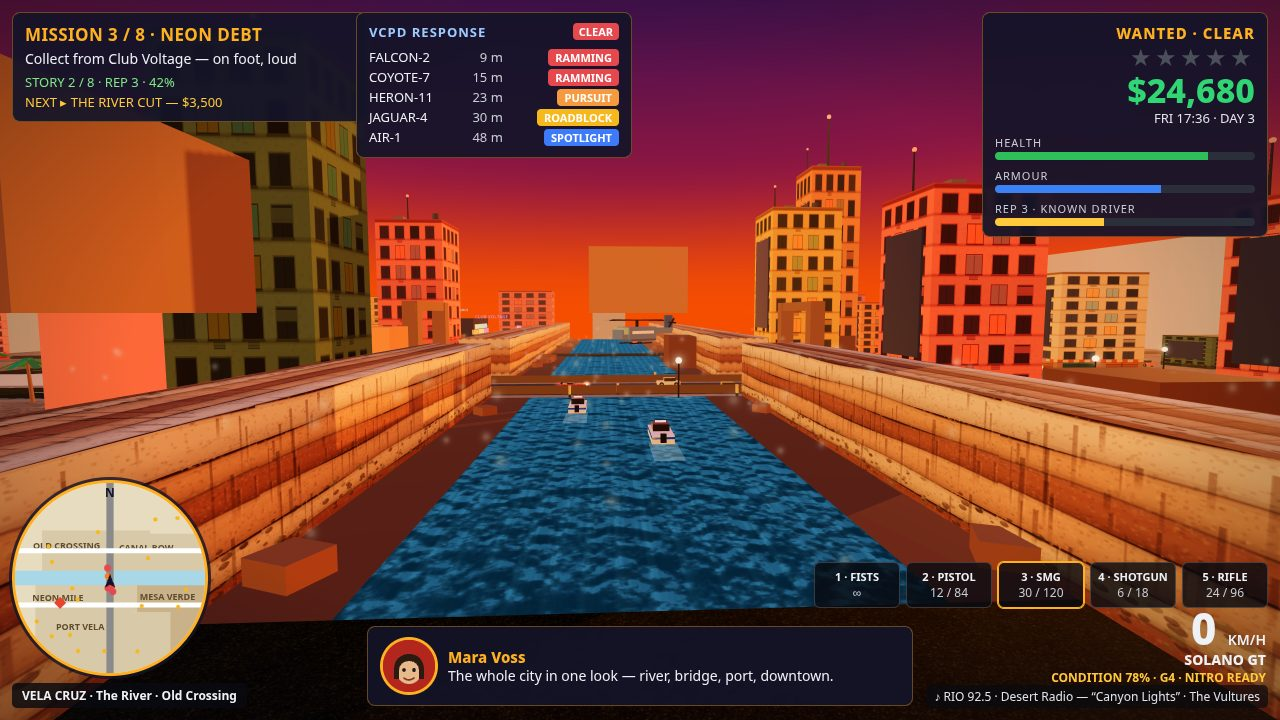
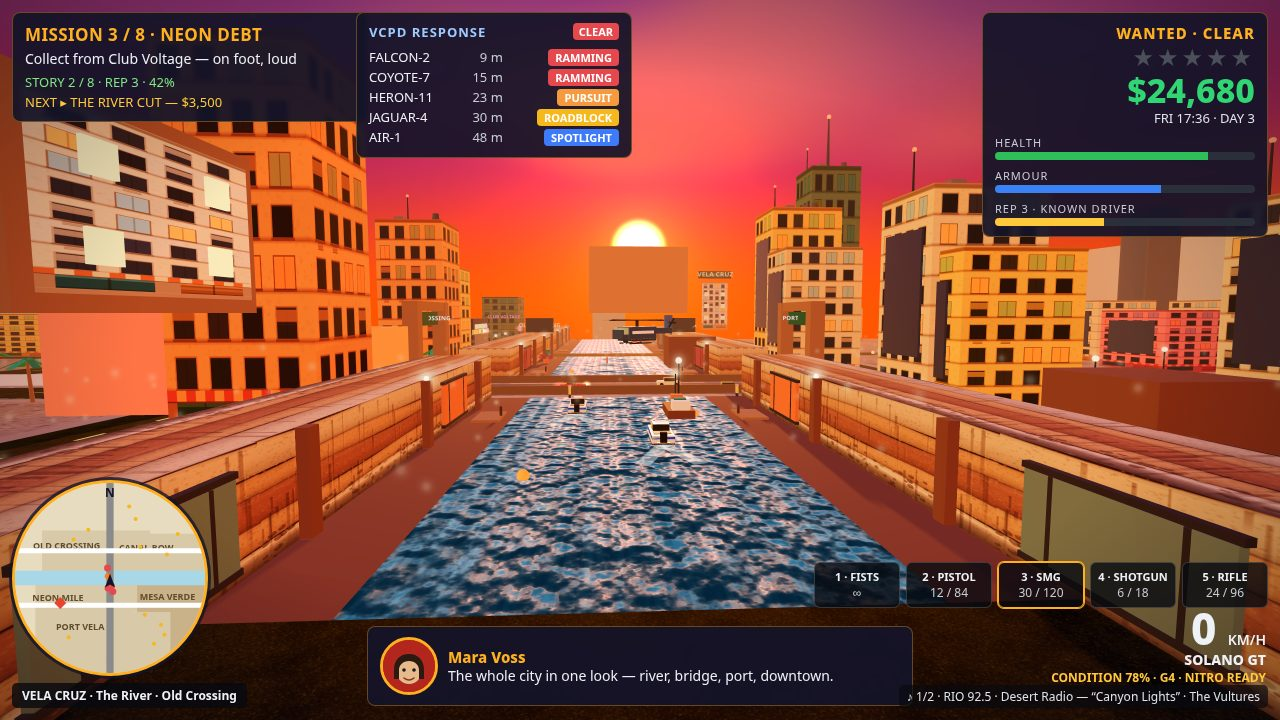
v7 r4d full — lighting + detail pass all shots

diff --git a/game/src/city.js b/game/src/city.js
@@ -87,6 +87,7 @@ export function createCity(seed = 7) {
   scene.add(playerLight);
   let sunYeff = 26;
   let sunOverride = null; // normalized THREE.Vector3 or null: staged-shot sun direction
+  let fillOverride = null; // number or null: staged-shot fill intensity, re-applied by setHour like sunOverride
   let lastWaterSky = 0x6fa8c0, lastSunHex = 0xff9a3e; // remembered by setHour for the override re-apply
   // Re-point sky dome sun, water glint at the override direction.
   // Called from setHour (if override already set) and from setSunOverride.
@@ -223,7 +224,7 @@ export function createCity(seed = 7) {
       // face (they must read at 100-270 m at a grazing angle) + one big
       // wall-top sign per segment. Face toward the river is at
       // z = wz - sign(wz)*5; panels sit 0.3 m proud of it.
-      const panelColors = [0xc96a2e, 0x2e7d6b, 0xb98a2e, 0x8a4a4a];
+      const panelColors = [0xc96a2e, 0x5f7a68, 0xb98a2e, 0x8a4a4a]; // r4d: teal muted to sage — the saturated teal read as a flat green slab at golden hour
       let pi = 0;
       for (let bx = x0 + 25; bx < x1 - 15; bx += 50) {
         const panel = new THREE.Mesh(
@@ -239,6 +240,21 @@ export function createCity(seed = 7) {
         );
         panelTrim.position.set(bx, 5.9, wz - Math.sign(wz) * 5.3);
         scene.add(panelTrim);
+        // r4d: bottom trim + two vertical ribs — the panel stops reading as one flat colour card.
+        const panelTrimB = new THREE.Mesh(
+          new THREE.BoxGeometry(11.4, 0.35, 0.45),
+          new THREE.MeshStandardMaterial({ color: 0x2a2a2a, roughness: 0.9 })
+        );
+        panelTrimB.position.set(bx, 0.9, wz - Math.sign(wz) * 5.3);
+        scene.add(panelTrimB);
+        for (const rx of [-3.6, 3.6]) {
+          const rib = new THREE.Mesh(
+            new THREE.BoxGeometry(0.3, 4.6, 0.45),
+            new THREE.MeshStandardMaterial({ color: 0x2a2a2a, roughness: 0.9 })
+          );
+          rib.position.set(bx + rx, 3.4, wz - Math.sign(wz) * 5.3);
+          scene.add(rib);
+        }
         pi++;
       }
       // Wall-top sign: dark backing + camera-facing label + glow, one per
@@ -246,7 +262,10 @@ export function createCity(seed = 7) {
       const wallSignTexts = ['PORT VELA', 'CANAL ROW', 'OLD CROSSING', 'MESA VERDE'];
       const wallSignIdx = (wz < 0 ? 0 : 2) + (x0 < 0 ? 0 : 1);
       const wsx = (x0 + x1) / 2;
-      const wsBack = box(0.6, 5.5, 18, 0x1a1a1a, wsx, 9.4, wz);
+      const wsBack = box(0.6, 5.5, 10, 0x1a1a1a, wsx, 9.4, wz);
+      // r4d-9: depth 18 (proof) menjorok ke z=35 dan menutupi huruf E sign
+      // CLUB VOLTAGE dari kamera night; depth 10 = selebar dinding (z 21..31),
+      // sinar E (z=34.3 di x=-110) lolos 3+ m.
       scene.add(wsBack);
       const wsLabel = labelSprite(wallSignTexts[wallSignIdx], '#ffd34d', 64);
       wsLabel.scale.set(16, 3.4, 1);
@@ -709,6 +728,16 @@ export function createCity(seed = 7) {
   spire.position.set(-52, 52 + 7, -58); scene.add(spire);
   const spireBeacon = new THREE.Mesh(new THREE.SphereGeometry(0.6, 8, 8), new THREE.MeshStandardMaterial({ color: 0xff2020, emissive: 0xff2020, emissiveIntensity: 3 }));
   spireBeacon.position.set(-52, 52 + 14.4, -58); scene.add(spireBeacon);
+  // r4d: far-north towers — the night shot's upper-right was empty black sky,
+  // and the wide frame's right horizon was flat. Lit south faces, so they
+  // read from the club street and from the wide camera alike.
+  for (const [tx, tz, th] of [[-120, -215, 55], [-80, -225, 45], [-40, -215, 60]]) {
+    const far = new THREE.Mesh(new THREE.BoxGeometry(13, th, 13), new THREE.MeshStandardMaterial({ color: 0x3a3a42, roughness: 0.9 }));
+    far.position.set(tx, th / 2, tz); far.castShadow = true; scene.add(far);
+    const farWin = new THREE.Mesh(new THREE.PlaneGeometry(11, th * 0.6), winMat);
+    farWin.position.set(tx, th * 0.55, tz + 6.6);
+    scene.add(farWin);
+  }
 
   // Neon Mile: Club Voltage + neon signs (emissive boxes that glow at night).
   const club = box(26, 12, 16, 0x241a33, -110, 6, 55); scene.add(club);
@@ -721,6 +750,29 @@ export function createCity(seed = 7) {
     const sign = box(8 + (i % 2) * 3, 1.6, 0.6, 0x111111, -118 + i * 4.5, ny, 46.9, { emissive: c, ei: 2.2 });
     scene.add(sign);
   });
+  // r4d: the middle (yellow) neon sign gets a word — it was one flat yellow bar.
+  // r4d-9: plane datar menghadap utara, bukan sprite billboard — sprite
+  // miring mengikuti kamera oblique dan separuh bidang masuk ke box sign
+  // kuning (muka depan z=46.6), sehingga huruf "CAN" tertutup.
+  const cantinaCanvas = document.createElement('canvas');
+  cantinaCanvas.width = 512; cantinaCanvas.height = 96;
+  const cantinaCtx = cantinaCanvas.getContext('2d');
+  cantinaCtx.font = '800 48px system-ui, sans-serif';
+  cantinaCtx.textAlign = 'center'; cantinaCtx.textBaseline = 'middle';
+  cantinaCtx.fillStyle = '#1a1a1a';
+  cantinaCtx.fillText('CANTINA', 256, 48);
+  const cantinaTex = new THREE.CanvasTexture(cantinaCanvas);
+  const cantinaLabel = new THREE.Mesh(
+    new THREE.PlaneGeometry(7, 1.3),
+    new THREE.MeshBasicMaterial({ map: cantinaTex, transparent: true })
+  );
+  cantinaLabel.position.set(-109, 7.5, 46.45);
+  cantinaLabel.rotation.y = Math.PI; // face north, toward the street/camera
+  scene.add(cantinaLabel);
+  const cantinaGlow = new THREE.Sprite(new THREE.SpriteMaterial({ map: glowTex, color: 0xffd400, transparent: true, opacity: 0.6, depthWrite: false, blending: THREE.AdditiveBlending }));
+  cantinaGlow.scale.set(9, 3, 1);
+  cantinaGlow.position.set(-109, 7.5, 46.4); // di depan muka sign (46.6)
+  scene.add(cantinaGlow);
   const clubSign = labelSprite('CLUB VOLTAGE', '#ff2e88', 56);
   clubSign.scale.set(15, 2.8, 1);
   clubSign.position.set(-114, 12.5, 39.5); scene.add(clubSign);
@@ -816,15 +868,15 @@ export function createCity(seed = 7) {
   const clubEastNeon2 = box(0.3, 9, 1.1, 0x00e5ff, -96.9, 6, 60, { emissive: 0x00e5ff, ei: 2.4 });
   scene.add(clubEastNeon2);
   const clubEastGlow = new THREE.Sprite(
-    new THREE.SpriteMaterial({ map: glowTex, color: 0xff2e88, transparent: true, opacity: 0.5, depthWrite: false, blending: THREE.AdditiveBlending })
+    new THREE.SpriteMaterial({ map: glowTex, color: 0xff2e88, transparent: true, opacity: 0.85, depthWrite: false, blending: THREE.AdditiveBlending })
   );
-  clubEastGlow.scale.set(3, 9, 1);
+  clubEastGlow.scale.set(4.5, 11, 1);
   clubEastGlow.position.set(-96.6, 6, 50);
   scene.add(clubEastGlow);
   const clubEastGlow2 = new THREE.Sprite(
-    new THREE.SpriteMaterial({ map: glowTex, color: 0x00e5ff, transparent: true, opacity: 0.5, depthWrite: false, blending: THREE.AdditiveBlending })
+    new THREE.SpriteMaterial({ map: glowTex, color: 0x00e5ff, transparent: true, opacity: 0.85, depthWrite: false, blending: THREE.AdditiveBlending })
   );
-  clubEastGlow2.scale.set(4, 10, 1);
+  clubEastGlow2.scale.set(5.5, 12, 1);
   clubEastGlow2.position.set(-96.6, 6, 60);
   scene.add(clubEastGlow2);
   const clubEastLight = new THREE.PointLight(0xff2e88, 0, 26, 1.2);
@@ -1048,15 +1100,16 @@ export function createCity(seed = 7) {
       sun.position.set(-60, sunYeff, -80);
       hemi.intensity = s2.amb;
       fill.intensity = s2.fill;
+      if (fillOverride !== null) fill.intensity = fillOverride;
       // Windows glow after dark / before dawn; the atlas does the rest.
       // v3: brighter (1.7) + the club face joins in, and lamp pools + the
       // player light switch on with the dark.
       const night = (hour >= 19 || hour < 6.5);
-      winMat.emissiveIntensity = night ? 1.7 : 0;
-      clubWinMat.emissiveIntensity = night ? 1.7 : 0;
+      winMat.emissiveIntensity = night ? 2.2 : 0;
+      clubWinMat.emissiveIntensity = night ? 2.2 : 0;
       for (const p of pools) p.material.opacity = night ? 0.32 : (hour >= 17.5 && hour < 19 ? 0.14 : 0);
       // v4: neon spill lights live only after dark (with a faint glow at dusk).
-      for (const n of neonLights) n.light.intensity = night ? n.on : (hour >= 17.5 && hour < 19 ? n.on * 0.35 : 0);
+      for (const n of neonLights) n.light.intensity = night ? n.on * 1.35 : (hour >= 17.5 && hour < 19 ? n.on * 0.35 : 0);
       playerLight.intensity = night ? 4.5 : (hour >= 17.5 && hour < 19 ? 0.7 : 0);
       // Water sky is deliberately DECOUPLED from the fog colour: at golden hour
       // pal.fog is a warm orange, and feeding it to the shader turned the river
@@ -1090,12 +1143,15 @@ export function createCity(seed = 7) {
     /** Staged-shot sun override: re-point sky sun, water glint, light and
      *  fog for ONE shot. dir = direction TOWARD the sun (will be normalized).
      *  fogD optional: denser haze so downtown dissolves into the sunset. */
-    setSunOverride(x, y, z, fogD) {
+    setSunOverride(x, y, z, fogD, fillI) {
       sunOverride = new THREE.Vector3(x, y, z).normalize();
       if (fogD) scene.fog.density = fogD;
+      if (fillI !== undefined) fillOverride = fillI;
       applySunOverride();
     },
-    clearSunOverride() { sunOverride = null; },
+    /** Staged-shot fill boost without moving the sun (cover shot). */
+    setFillI(v) { fillOverride = v; },
+    clearSunOverride() { sunOverride = null; fillOverride = null; },
     /** Park the warm player light over the on-foot figure (night shots). */
     setPlayerLight(x, z) {
       playerLight.position.set(x, 4.5, z);

diff --git a/game/src/vehicles.js b/game/src/vehicles.js
@@ -192,9 +192,20 @@ function buildPoliceBoatMesh() {
   g.add(bow);
   const stripe = new THREE.Mesh(new THREE.BoxGeometry(2.42, 0.22, BOAT.length), new THREE.MeshStandardMaterial({ color: 0x1a4fd6 }));
   stripe.position.y = 0.8; g.add(stripe);
+  // r4d: dark waterline at the hull base + a dark deck inset — the white hull
+  // stops reading as one flat barge slab from the high boat camera.
+  const waterline = new THREE.Mesh(new THREE.BoxGeometry(2.44, 0.16, BOAT.length), new THREE.MeshStandardMaterial({ color: 0x14202e, roughness: 0.5 }));
+  waterline.position.y = 0.18; g.add(waterline);
+  const deckInset = new THREE.Mesh(new THREE.BoxGeometry(1.9, 0.06, 4.6), new THREE.MeshStandardMaterial({ color: 0x2a2f36, roughness: 0.6 }));
+  deckInset.position.y = 1.06; g.add(deckInset);
   const cab = new THREE.Mesh(new THREE.BoxGeometry(1.8, 0.8, 2.2), new THREE.MeshStandardMaterial({ color: 0x18202e, roughness: 0.3, metalness: 0.5 }));
   cab.position.set(0, 1.4, 0.4); g.add(cab);
-  const bar = new THREE.Mesh(new THREE.BoxGeometry(1.2, 0.18, 0.4), new THREE.MeshStandardMaterial({ color: 0xffffff, emissive: 0xff2233, emissiveIntensity: 2 }));
+  // r4d: dark glass on both cab flanks so the cab reads as a wheelhouse, not a box.
+  for (const sx of [-1, 1]) {
+    const cabGlass = new THREE.Mesh(new THREE.BoxGeometry(0.06, 0.5, 1.6), new THREE.MeshPhysicalMaterial({ color: 0x0a0e14, roughness: 0.08, metalness: 0.0, clearcoat: 1.0 }));
+    cabGlass.position.set(sx * 0.92, 1.45, 0.4); g.add(cabGlass);
+  }
+  const bar = new THREE.Mesh(new THREE.BoxGeometry(1.2, 0.18, 0.4), new THREE.MeshStandardMaterial({ color: 0xffffff, emissive: 0xff2233, emissiveIntensity: 3 }));
   bar.position.set(0, 1.95, 0.4); g.add(bar);
   const motor = new THREE.Mesh(new THREE.BoxGeometry(0.7, 1.1, 0.6), new THREE.MeshStandardMaterial({ color: 0x141414 }));
   motor.position.set(0, 0.9, -3.3); g.add(motor);

diff --git a/game/src/shots.js b/game/src/shots.js
@@ -90,7 +90,7 @@ export function stageShot(name, G) {
     // (golden wide / golden chase / neon night / blue dawn).
     Object.assign(save, { cash: 24680, storyDone: 2, rep: 3, repProgress: 42, health: 82, armour: 64, day: 3, weekday: 'FRI', hour: 17.6, complete: 68 });
     G.city.setHour(17.6);
-    G.city.setSunOverride(-1, 0.14, -0.06, 0.0032); // r4d: sun low in the west, over the river vanishing point
+    G.city.setSunOverride(-1, 0.14, -0.06, 0.0032, 1.7); // r4d: sun low in the west, over the river vanishing point; fill lifts the shadow-side facades
     G.renderer.setExposure(1.24);
     G.player.setMode('car', 0, 8, Math.PI);
     G.player.drive(0, 0, 0, false, G.city.colliders);
@@ -163,6 +163,7 @@ export function stageShot(name, G) {
     // overhead, pursuit boats + helicopter. Police cars stay off the water.
     Object.assign(save, { cash: 24680, storyDone: 5, rep: 4, repProgress: 68, health: 82, armour: 64, day: 3, weekday: 'FRI', hour: 6.2, complete: 68 });
     G.city.setHour(6.2);
+    G.city.setSunOverride(1, 0.10, -0.05, 0.004, 0.9); // r4d: dawn sun low in the east, over the river ahead — disc + glint lane in frame
     G.renderer.setExposure(1.15);
     G.city.dust.setOn(false);
     G.player.setMode('boat', -30, 0, Math.PI / 2);
@@ -194,6 +195,7 @@ export function stageShot(name, G) {
     // sand promenade left) and the arch is small and hazed at the vanish.
     Object.assign(save, { cash: 24680, storyDone: 5, rep: 4, repProgress: 68, health: 82, armour: 64, day: 3, weekday: 'FRI', hour: 18.0, complete: 68 });
     G.city.setHour(18.0);
+    G.city.setFillI(1.7); // r4d: lift the shadow-side asphalt foreground + hero car rear
     G.renderer.setExposure(1.22);
     G.player.setMode('car', 0, 150, Math.PI); // z=150, heading north up the boulevard
     G.player.speed = 42.8; // 154 km/h

diff --git a/game/src/atmosphere.js b/game/src/atmosphere.js
@@ -150,6 +150,24 @@ export function createSky(scene) {
         return fract(p.x * p.y * p.z * (p.x + p.y + p.z));
       }
 
+      float hash21(vec2 p) {
+        p = fract(p * vec2(123.34, 456.21));
+        p += dot(p, p + 45.32);
+        return fract(p.x * p.y);
+      }
+      float vnoise(vec2 p) {
+        vec2 i = floor(p), f = fract(p);
+        f = f * f * (3.0 - 2.0 * f);
+        float a = hash21(i), b = hash21(i + vec2(1.0, 0.0));
+        float c = hash21(i + vec2(0.0, 1.0)), e = hash21(i + vec2(1.0, 1.0));
+        return mix(mix(a, b, f.x), mix(c, e, f.x), f.y);
+      }
+      float fbm3(vec2 p) {
+        float v = 0.0, a = 0.5;
+        for (int i = 0; i < 3; i++) { v += a * vnoise(p); p *= 2.13; a *= 0.5; }
+        return v;
+      }
+
       void main() {
         vec3 d = normalize(vDir);
         float h = clamp(d.y, -0.10, 1.0);
@@ -164,6 +182,14 @@ export function createSky(scene) {
         float band = smoothstep(0.30, 0.42, h) * (1.0 - smoothstep(0.55, 0.68, h));
         col = mix(col, vec3(0.98, 0.72, 0.82), band * 0.12 * (1.0 - uNight));
 
+        // Procedural clouds: soft billows in the upper sky, sun-tinted, so the
+        // zenith never reads as an empty gradient. Day/golden only.
+        vec2 cuv = d.xz / max(d.y + 0.22, 0.06);
+        float cn = fbm3(cuv * 0.55 + vec2(3.7, 1.3));
+        float cmask = smoothstep(0.16, 0.30, h) * (1.0 - smoothstep(0.55, 0.72, h));
+        float cov = smoothstep(0.52, 0.72, cn) * cmask * (1.0 - uNight);
+        vec3 cloudCol = mix(uHorizon, uSunColor, 0.45);
+        col = mix(col, cloudCol, cov * 0.38);
         // Horizon haze: same colour as the fog, thickest at the waterline, so
         // distant towers dissolve into the sky instead of cutting a silhouette.
         float haze = pow(1.0 - clamp(h / 0.30, 0.0, 1.0), 2.0);
